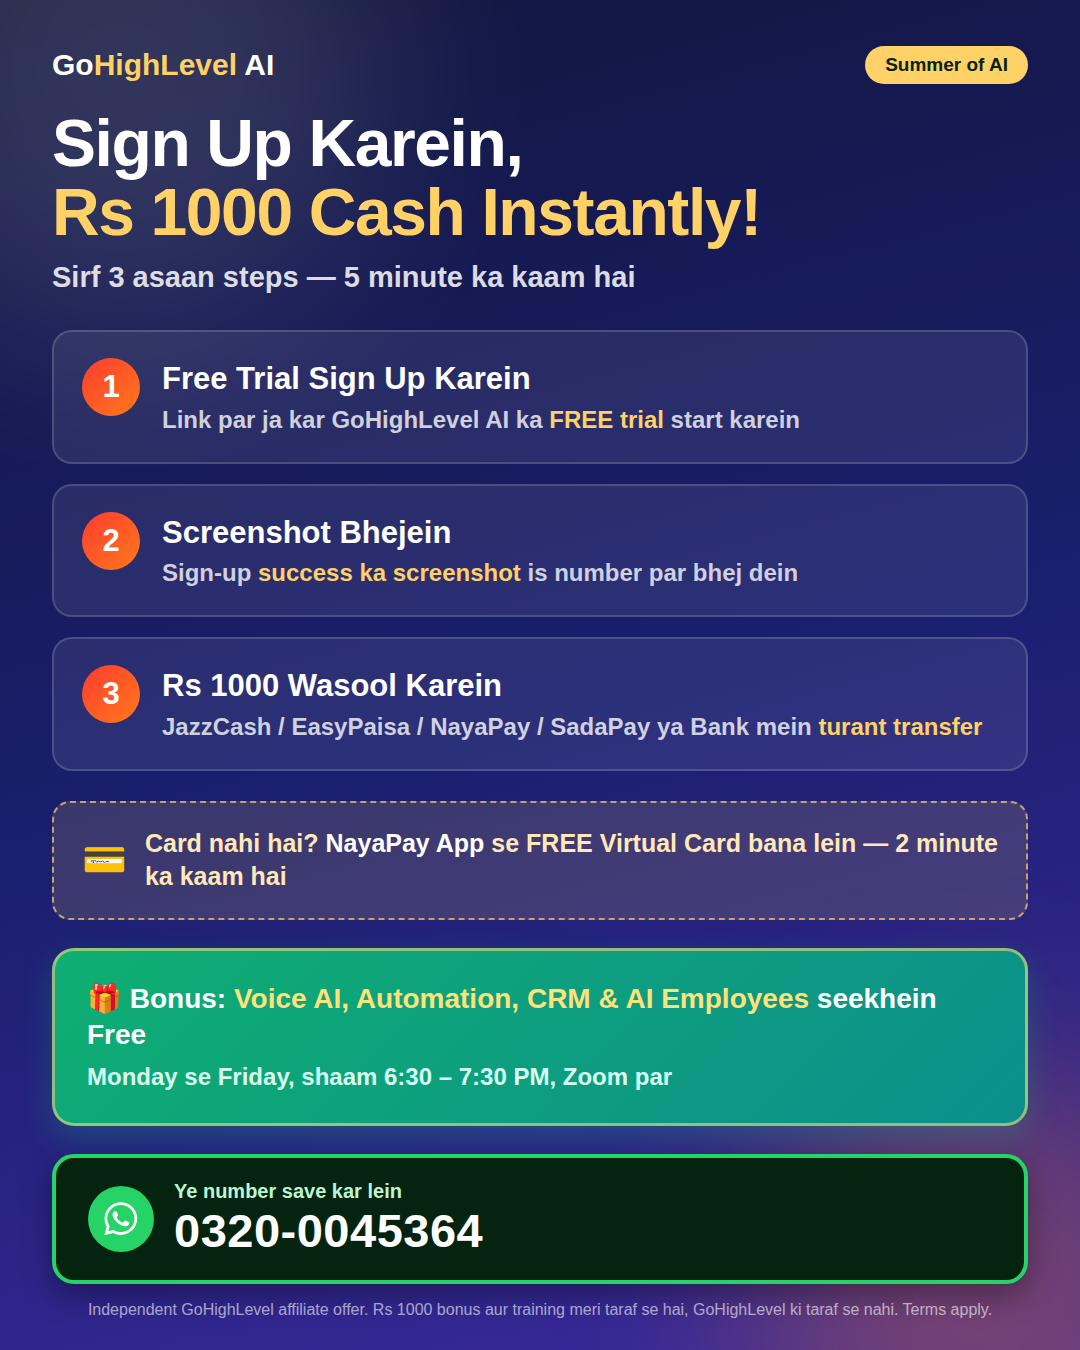
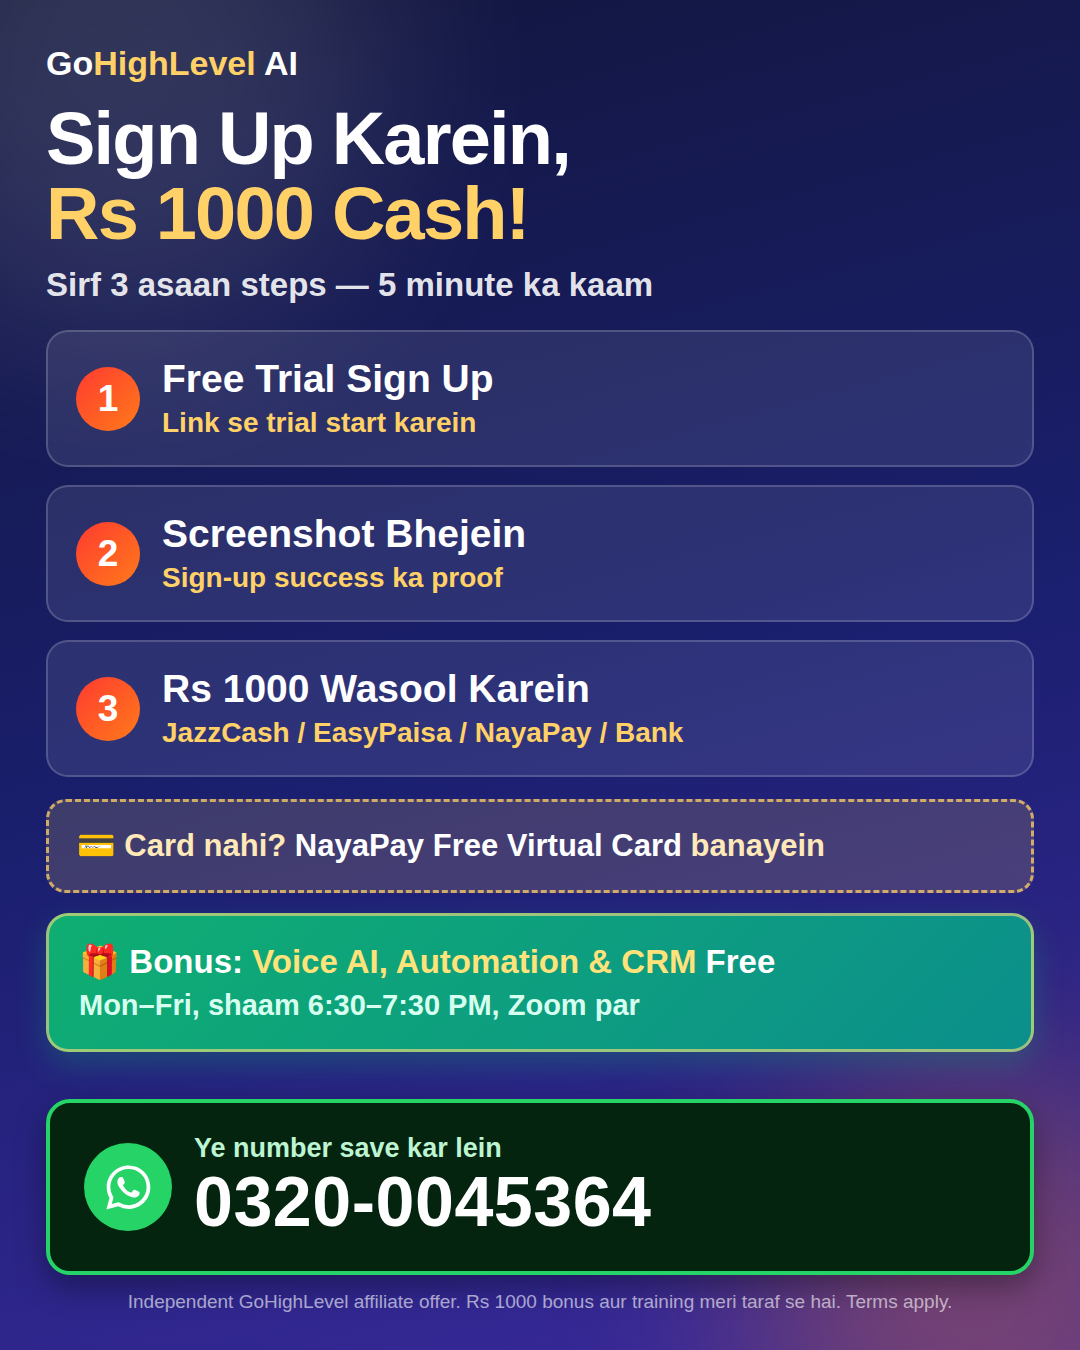
Enlarge WhatsApp reply image text for mobile readability
Text was unreadable at the size WhatsApp renders in-chat images. Cut
the copy so every line fits on one row and scaled type up roughly 30-40%
(headline 62->74px, step titles 29->39px, number 47->70px).

The canvas stays 1080x1350 — that is already the ratio WhatsApp displays
largest in chat, so a taller canvas would render smaller, not bigger.
Fewer words at larger sizes was the only real lever.

Also parameterised the number so both 0320-0045364 and 0302-1202000
variants render from the same source file.

diff --git a/ads-source/gohighlevel-summer-of-ai-bold-pk/whatsapp_reply.html b/ads-source/gohighlevel-summer-of-ai-bold-pk/whatsapp_reply.html
@@ -9,78 +9,70 @@
   .stage {
     position:relative; width:100%; height:100%; overflow:hidden;
     background: linear-gradient(165deg, #12163c 0%, #1a1f6e 52%, #3b2a9e 100%);
-    color:#fff; display:flex; flex-direction:column; padding:46px 52px 40px;
+    color:#fff; display:flex; flex-direction:column; padding:44px 46px 34px;
   }
   .glow { position:absolute; border-radius:50%; filter:blur(95px); }
   .glow1 { width:520px; height:520px; background:rgba(255,255,255,0.13); top:-190px; left:-140px; }
   .glow2 { width:460px; height:460px; background:rgba(255,122,26,0.30); bottom:-180px; right:-130px; }
 
-  .top { position:relative; z-index:2; display:flex; align-items:center; justify-content:space-between; margin-bottom:26px; }
-  .brand { font-size:30px; font-weight:800; }
+  .brand { position:relative; z-index:2; font-size:34px; font-weight:800; margin-bottom:18px; }
   .brand .go{ color:#fff; } .brand .hl{ color:#ffd166; }
-  .badge {
-    font-size:19px; font-weight:800; color:#04240f; background:#ffd166;
-    padding:8px 20px; border-radius:999px;
-  }
 
-  .hero { position:relative; z-index:2; text-align:left; margin-bottom:36px; }
-  .hero .h1 { font-size:66px; font-weight:900; line-height:1.03; letter-spacing:-1.4px; color:#fff; }
-  .hero .h2 { font-size:66px; font-weight:900; line-height:1.05; letter-spacing:-1.4px; color:#ffd166; }
-  .hero .sub { font-size:29px; font-weight:600; color:rgba(255,255,255,0.86); margin-top:14px; }
+  .hero { position:relative; z-index:2; text-align:left; margin-bottom:26px; }
+  .hero .h1 { font-size:74px; font-weight:900; line-height:1.02; letter-spacing:-1.8px; color:#fff; }
+  .hero .h2 { font-size:74px; font-weight:900; line-height:1.04; letter-spacing:-1.8px; color:#ffd166; }
+  .hero .sub { font-size:33px; font-weight:700; color:rgba(255,255,255,0.9); margin-top:13px; }
 
-  .steps { position:relative; z-index:2; display:flex; flex-direction:column; gap:20px; margin-bottom:30px; }
+  .steps { position:relative; z-index:2; display:flex; flex-direction:column; gap:18px; margin-bottom:22px; }
   .step {
-    display:flex; align-items:flex-start; gap:22px;
-    background:rgba(255,255,255,0.08); border:2px solid rgba(255,255,255,0.16);
-    border-radius:20px; padding:26px 28px;
+    display:flex; align-items:center; gap:22px;
+    background:rgba(255,255,255,0.09); border:2px solid rgba(255,255,255,0.18);
+    border-radius:22px; padding:25px 28px;
   }
   .step .num {
-    flex:0 0 auto; width:58px; height:58px; border-radius:50%;
+    flex:0 0 auto; width:64px; height:64px; border-radius:50%;
     background:linear-gradient(135deg,#ff3b30,#ff7a1a); color:#fff;
     display:flex; align-items:center; justify-content:center;
-    font-size:31px; font-weight:900;
+    font-size:37px; font-weight:900;
   }
-  .step .txt { padding-top:2px; }
-  .step .t1 { font-size:31px; font-weight:800; color:#fff; line-height:1.25; }
-  .step .t2 { font-size:24px; font-weight:600; color:rgba(255,255,255,0.78); line-height:1.32; margin-top:5px; }
-  .step .t2 b { color:#ffd166; font-weight:800; }
+  .step .t1 { font-size:39px; font-weight:900; color:#fff; line-height:1.15; }
+  .step .t2 { font-size:28px; font-weight:700; color:#ffd166; line-height:1.25; margin-top:3px; }
 
-  .cardnote {
-    position:relative; z-index:2; display:flex; align-items:center; gap:18px;
-    background:rgba(255,209,102,0.14); border:2px dashed rgba(255,209,102,0.7);
-    border-radius:18px; padding:24px 28px; margin-bottom:28px;
+  .note {
+    position:relative; z-index:2;
+    background:rgba(255,209,102,0.16); border:3px dashed rgba(255,209,102,0.75);
+    border-radius:20px; padding:24px 28px; margin-bottom:20px;
+    font-size:31px; font-weight:800; color:#ffe9b8; line-height:1.28;
   }
-  .cardnote .ic { font-size:36px; flex:0 0 auto; }
-  .cardnote .t { font-size:25px; font-weight:700; color:#ffe9b8; line-height:1.34; }
-  .cardnote .t b { color:#fff; font-weight:900; }
+  .note b { color:#fff; font-weight:900; }
 
   .bonus {
     position:relative; z-index:2;
     background:linear-gradient(135deg, #0fae72 0%, #0c8f8c 100%);
-    border-radius:22px; padding:30px 32px; margin-bottom:28px;
-    border:3px solid rgba(255,224,122,0.55);
+    border-radius:22px; padding:26px 30px; margin-bottom:20px;
+    border:3px solid rgba(255,224,122,0.6);
     box-shadow:0 12px 30px rgba(15,174,114,0.28);
   }
-  .bonus .b1 { font-size:28px; font-weight:900; color:#fff; line-height:1.3; }
+  .bonus .b1 { font-size:33px; font-weight:900; color:#fff; line-height:1.2; }
   .bonus .b1 b { color:#ffe27a; }
-  .bonus .b2 { font-size:24px; font-weight:700; color:#d7fff0; margin-top:8px; line-height:1.3; }
+  .bonus .b2 { font-size:29px; font-weight:800; color:#d7fff0; margin-top:7px; line-height:1.2; }
 
   .spacer { flex:1 1 auto; }
 
   .waCta {
     position:relative; z-index:2;
-    display:flex; align-items:center; gap:20px; background:#04240f;
-    border-radius:22px; padding:22px 32px; border:4px solid #25D366;
+    display:flex; align-items:center; gap:22px; background:#04240f;
+    border-radius:24px; padding:30px 34px; border:4px solid #25D366;
     box-shadow:0 12px 30px rgba(0,0,0,0.35); margin-bottom:14px;
   }
   .waCta .icon {
-    width:66px; height:66px; border-radius:50%; background:#25D366;
+    width:88px; height:88px; border-radius:50%; background:#25D366;
     display:flex; align-items:center; justify-content:center; flex:0 0 auto;
   }
-  .waCta .t1 { font-size:20px; font-weight:700; color:#bdf5d3; }
-  .waCta .t2 { font-size:47px; font-weight:900; color:#fff; letter-spacing:0.5px; }
+  .waCta .t1 { font-size:27px; font-weight:800; color:#bdf5d3; }
+  .waCta .t2 { font-size:70px; font-weight:900; color:#fff; letter-spacing:0.5px; line-height:1.1; }
 
-  .fine { position:relative; z-index:2; font-size:16px; color:rgba(255,255,255,0.6); line-height:1.45; text-align:center; }
+  .fine { position:relative; z-index:2; font-size:19px; color:rgba(255,255,255,0.6); line-height:1.4; text-align:center; }
 </style>
 </head>
 <body>
@@ -88,49 +80,45 @@
     <div class="glow glow1"></div>
     <div class="glow glow2"></div>
 
-    <div class="top">
-      <div class="brand"><span class="go">Go</span><span class="hl">HighLevel</span> AI</div>
-      <div class="badge">Summer of AI</div>
-    </div>
+    <div class="brand"><span class="go">Go</span><span class="hl">HighLevel</span> AI</div>
 
     <div class="hero">
       <div class="h1">Sign Up Karein,</div>
-      <div class="h2">Rs 1000 Cash Instantly!</div>
-      <div class="sub">Sirf 3 asaan steps &mdash; 5 minute ka kaam hai</div>
+      <div class="h2">Rs 1000 Cash!</div>
+      <div class="sub">Sirf 3 asaan steps &mdash; 5 minute ka kaam</div>
     </div>
 
     <div class="steps">
       <div class="step">
         <div class="num">1</div>
-        <div class="txt">
-          <div class="t1">Free Trial Sign Up Karein</div>
-          <div class="t2">Link par ja kar GoHighLevel AI ka <b>FREE trial</b> start karein</div>
+        <div>
+          <div class="t1">Free Trial Sign Up</div>
+          <div class="t2">Link se trial start karein</div>
         </div>
       </div>
       <div class="step">
         <div class="num">2</div>
-        <div class="txt">
+        <div>
           <div class="t1">Screenshot Bhejein</div>
-          <div class="t2">Sign-up <b>success ka screenshot</b> is number par bhej dein</div>
+          <div class="t2">Sign-up success ka proof</div>
         </div>
       </div>
       <div class="step">
         <div class="num">3</div>
-        <div class="txt">
+        <div>
           <div class="t1">Rs 1000 Wasool Karein</div>
-          <div class="t2">JazzCash / EasyPaisa / NayaPay / SadaPay ya Bank mein <b>turant transfer</b></div>
+          <div class="t2">JazzCash / EasyPaisa / NayaPay / Bank</div>
         </div>
       </div>
     </div>
 
-    <div class="cardnote">
-      <div class="ic">&#128179;</div>
-      <div class="t">Card nahi hai? <b>NayaPay App</b> se FREE Virtual Card bana lein &mdash; 2 minute ka kaam hai</div>
+    <div class="note">
+      &#128179; Card nahi? <b>NayaPay Free Virtual Card</b> banayein
     </div>
 
     <div class="bonus">
-      <div class="b1">&#127873; Bonus: <b>Voice AI, Automation, CRM &amp; AI Employees</b> seekhein Free</div>
-      <div class="b2">Monday se Friday, shaam 6:30 &ndash; 7:30 PM, Zoom par</div>
+      <div class="b1">&#127873; Bonus: <b>Voice AI, Automation &amp; CRM</b> Free</div>
+      <div class="b2">Mon&ndash;Fri, shaam 6:30&ndash;7:30 PM, Zoom par</div>
     </div>
 
     <div class="spacer"></div>
@@ -143,7 +131,7 @@
       </div>
     </div>
 
-    <div class="fine">Independent GoHighLevel affiliate offer. Rs 1000 bonus aur training meri taraf se hai, GoHighLevel ki taraf se nahi. Terms apply.</div>
+    <div class="fine">Independent GoHighLevel affiliate offer. Rs 1000 bonus aur training meri taraf se hai. Terms apply.</div>
   </div>
 </body>
 </html>

diff --git a/ads-source/gohighlevel-summer-of-ai-bold-pk/render_whatsapp_reply.js b/ads-source/gohighlevel-summer-of-ai-bold-pk/render_whatsapp_reply.js
@@ -1,10 +1,23 @@
 // Renders the 1080x1350 "how to claim" image sent as a reply to incoming
-// WhatsApp messages from the ad campaigns. Requires the `playwright`
-// package (npm install playwright) with its bundled Chromium
-// (npx playwright install chromium).
+// WhatsApp messages from the ad campaigns.
+//
+//   node render_whatsapp_reply.js                          # default number
+//   PHONE=0302-1202000 node render_whatsapp_reply.js       # other number
+//
+// With PHONE set, the output filename gets the number's digits appended.
+// Requires the `playwright` package (npm install playwright) with its
+// bundled Chromium (npx playwright install chromium).
 const { chromium } = require('playwright');
 const fs = require('fs');
 const path = require('path');
+
+// The number as it appears in whatsapp_reply.html.
+const SOURCE_PHONE = '0320-0045364';
+
+const PHONE = process.env.PHONE || SOURCE_PHONE;
+const outName = PHONE === SOURCE_PHONE
+  ? 'whatsapp_reply_1080x1350.png'
+  : `whatsapp_reply_1080x1350_${PHONE.replace(/\D/g, '')}.png`;
 
 (async () => {
   const launchOptions = process.env.PLAYWRIGHT_CHROMIUM_PATH
@@ -12,12 +25,13 @@ const path = require('path');
     : {};
   const browser = await chromium.launch(launchOptions);
   const page = await browser.newPage({ viewport: { width: 1080, height: 1350 }, deviceScaleFactor: 1 });
-  const html = fs.readFileSync(path.join(__dirname, 'whatsapp_reply.html'), 'utf8');
+  let html = fs.readFileSync(path.join(__dirname, 'whatsapp_reply.html'), 'utf8');
+  html = html.split(SOURCE_PHONE).join(PHONE);
   await page.setContent(html, { waitUntil: 'load' });
   await page.waitForTimeout(80);
   const outDir = path.join(__dirname, 'images');
   fs.mkdirSync(outDir, { recursive: true });
-  await page.screenshot({ path: path.join(outDir, 'whatsapp_reply_1080x1350.png') });
-  console.log('rendered');
+  await page.screenshot({ path: path.join(outDir, outName) });
+  console.log('rendered', outName);
   await browser.close();
 })();

diff --git a/ads-source/gohighlevel-summer-of-ai-bold-pk/README.md b/ads-source/gohighlevel-summer-of-ai-bold-pk/README.md
@@ -76,6 +76,23 @@ note for the card requirement, the Bonus training block with its
 schedule, and a "save this number" CTA. Pair it with the text message in
 `whatsapp-autoreply.md`.
 
+**Type is deliberately large and the copy deliberately short.** WhatsApp
+scales in-chat images down to roughly a third of the screen width, so an
+earlier, wordier version was unreadable on a phone. 1080x1350 (4:5) is
+already the ratio WhatsApp displays largest in chat — making the canvas
+taller would make it *smaller* on screen, not bigger, since WhatsApp
+caps bubble height. The only real lever is fewer words at bigger sizes,
+so every line is trimmed to fit on one row. Keep it that way when
+editing: adding a few words will silently push a line to wrap and shrink
+the perceived size again.
+
+Both number variants are rendered from this one file:
+
+```bash
+node render_whatsapp_reply.js                      # 0320-0045364
+PHONE=0302-1202000 node render_whatsapp_reply.js   # 0302-1202000
+```
+
 ### Animated versions (3 aspect ratios)
 
 Same content, ~8s each, all built by recording a CSS-keyframe-animated
